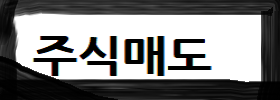
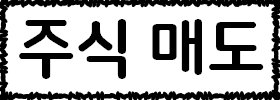
이미지 바꿔놓았습니다

diff --git a/t.py b/t.py
@@ -25,39 +25,36 @@ success_sound=pg.mixer.Sound("sound/매수매매성공효과음.mp3")
 gameclear_sound=pg.mixer.Sound("sound/게임승리효과음.mp3")
 gameover_sound=pg.mixer.Sound("sound/게임실패효과음.mp3")
 
-# 이미지
-mainmenu_img = pg.image.load('image/screen/메인화면.png')
-howtomenu_img = pg.image.load('image/screen/게임설명.png')
-gamebg_img = pg.image.load('image/screen/게임화면.png')
-showbuy_img = pg.image.load('image/screen/매수창.png')
-show_img = pg.image.load('image/screen/창.png')
-stockbox_img = pg.image.load('image/screen/주식박스.png')
+# 이미지 #해결된 거 옆에 주석처리^^
+mainmenu_img = pg.image.load('image/screen/메인화면.png') #
+howtomenu_img = pg.image.load('image/screen/게임설명.png') #추후 수정
+gamebg_img = pg.image.load('image/screen/게임화면.png') #
+showbuy_img = pg.image.load('image/screen/매수창.png')#
 gameclear_img = pg.image.load('image/screen/게임승리.png')
 gameover_img = pg.image.load('image/screen/게임오버.png')
 
 startbutton_img = pg.image.load('image/button/게임시작버튼.png')
 howtobutton_img = pg.image.load('image/button/게임방법버튼.png')
-cancelbutton_img = pg.image.load('image/button/취소버튼.png')
-sell_img = pg.image.load('image/button/매도버튼.png')
-nextday_img = pg.image.load('image/button/다음날로.png')
+cancelbutton_img = pg.image.load('image/button/취소버튼.png')#
+sell_img = pg.image.load('image/button/매도버튼.png')#
+nextday_img = pg.image.load('image/button/다음날로.png')#
 ten_img = pg.image.load('image/button/10주.png')
 thirty_img = pg.image.load('image/button/30주.png')
 fifty_img = pg.image.load('image/button/50주.png')
 hundred_img = pg.image.load('image/button/100주.png')
-decidebuy_img = pg.image.load('image/button/매수결정.png')
-buy_img = pg.image.load('image/button/매수버튼.png')
-tradeall_img = pg.image.load('image/button/전체수량.png')
+decidebuy_img = pg.image.load('image/button/매수결정.png')#
+buy_img = pg.image.load('image/button/매수버튼.png')#
+tradeall_img = pg.image.load('image/button/전체수량.png')#
 playagain_img = pg.image.load('image/button/다시하기.png')
 exitgame_img = pg.image.load('image/button/게임종료.png')
 
-seedicon_img = pg.image.load('image/etc/시드머니아이콘.png')
-goal_img = pg.image.load('image/etc/목표자산.png')
-seedicon_img = pg.image.load('image/etc/시드머니아이콘.png')
-stock1_img = pg.image.load('image/etc/주식1.png')
-stock2_img = pg.image.load('image/etc/주식2.png')
-stock3_img = pg.image.load('image/etc/주식3.png')
-holdstock_img = pg.image.load('image/etc/주식보유량.png')
-tradevolume_img = pg.image.load('image/etc/거래량.png')
+seedicon_img = pg.image.load('image/etc/시드머니아이콘.png')#
+goal_img = pg.image.load('image/etc/목표자산.png')#
+stock1_img = pg.image.load('image/etc/주식1.png')#
+stock2_img = pg.image.load('image/etc/주식2.png')#
+stock3_img = pg.image.load('image/etc/주식3.png')#
+holdstock_img = pg.image.load('image/etc/주식보유량.png')#
+tradevolume_img = pg.image.load('image/etc/거래량.png')#
 
 #추가 이미지
 sellalarm1_img=pg.image.load('image/etc/매도량알람1.png')
@@ -69,25 +66,25 @@ successalarm_img=pg.image.load('image/etc/거래성공알람.png')
 
 
 # 버튼
-start_button = button.Button(650, 500, startbutton_img, 0.5)
-howto_button = button.Button(650, 600, howtobutton_img, 0.5)
-stock1_button = button.Button(80, 380, stock1_img, 1)
-stock2_button = button.Button(80, 500, stock2_img, 1)
-stock3_button = button.Button(80, 620, stock3_img, 1)
+start_button = button.Button(650, 500, startbutton_img, 0.5)#
+howto_button = button.Button(650, 600, howtobutton_img, 0.5)#
+stock1_button = button.Button(30, 240, stock1_img, 1)#
+stock2_button = button.Button(30, 425, stock2_img, 1)#
+stock3_button = button.Button(30, 610, stock3_img, 1)#
 
-nextday_button = button.Button(1100, 650, nextday_img, 1)
-sell_button = button.Button(1125, 570, sell_img, 1)
-buy_button = button.Button(1125, 440, buy_img, 1)
-decide_button = button.Button(350, 600-130, decidebuy_img, 0.7-0.2)
+nextday_button = button.Button(1150, 650, nextday_img, 1)#
+sell_button = button.Button(1150, 540, sell_img, 1)#
+buy_button = button.Button(1150, 430, buy_img, 1)#
+decide_button = button.Button(330, 540, decidebuy_img, 0.7)#
 
-sellten_button = button.Button(320, 350-130, ten_img, 1)
-sellthr_button = button.Button(540, 350-130, thirty_img, 1)
-sellfif_button = button.Button(760, 350-130, fifty_img, 1)
-sellhund_button = button.Button(980, 350-130, hundred_img, 1)
-tradeall_button = button.Button(650, 470-130, tradeall_img, 1)
+sellten_button = button.Button(325, 330, ten_img, 0.7)#
+sellthr_button = button.Button(545, 330, thirty_img, 0.7)#
+sellfif_button = button.Button(765, 330, fifty_img, 0.7)#
+sellhund_button = button.Button(985, 330, hundred_img, 0.7)#
+tradeall_button = button.Button(640, 420, tradeall_img, 0.8)#
 
-playagain_button = button.Button(400, 550, playagain_img, 1)
-exitgame_button = button.Button(900, 550, exitgame_img, 1)
+playagain_button = button.Button(300, 550, playagain_img, 1)
+exitgame_button = button.Button(800, 550, exitgame_img, 1)
 
 # game 화면 실행 변수들
 main_menu = True
@@ -152,8 +149,7 @@ def imgdraw(img, w, h, x, y, scale):
 def showinfo(stock, hold):
     updownrate = str(
         int(((stock.prices[nowdate - 1]) / (stock.prices[nowdate - 6]) - 1) * 100))
-    imgdraw(show_img, 830, 570, 600, 200, 1)
-    imgdraw(holdstock_img, 280, 180, 1125, 230, 1)
+    imgdraw(holdstock_img, 280, 180, 1150, 240, 1)
     Writetext((str(str(hold) + '주')), 50, BLACK, 1200, 300)
     Writetext((str('주가: ' + str(int(stock.price)) + '원')), 50, BLACK, 640, 600)
     if float(updownrate) >= 0:
@@ -191,19 +187,20 @@ def savegraph(stock):
 
 #주식창 열때 설정
 def menuclick(stock):
-    global stockimg
+    #global stockimg
     plt.cla()
     savegraph(stock)
-    stockimg = pg.image.load('image/figures/figure.png')
+    #stockimg = pg.image.load('image/figures/figure.png')
+    return pg.image.load('image/figures/figure.png')
 
 #주식 사거나 팔때 창 설정
 def showtrade(volume):
     global game_menu, cancel_button
     game_menu = False
-    imgdraw(showbuy_img, 900, 600-100, 300, 200-150, 1)
-    imgdraw(tradevolume_img, 575, 115, 480, 200-130, 1)
-    Writetext(volume, 50, WHITE, 570, 220-130)
-    cancel_button = button.Button(850+60, 600-130, cancelbutton_img, 0.7-0.2)
+    imgdraw(showbuy_img, 900, 600, 300, 200-150, 1)
+    imgdraw(tradevolume_img, 575, 115, 470, 180, 1)
+    Writetext(volume, 50, WHITE, 520, 180)
+    cancel_button = button.Button(850, 540, cancelbutton_img, 0.7)
 
 def howmuch(volume):
     if sellten_button.draw(screen) == True:
@@ -233,9 +230,10 @@ def howmuchsell(sellvolume, hold):
 def buydecide(price,buyvolume,hold):
     global game_menu,seed
     game_menu=False
+    t=0
     if decide_button.draw(screen) == True:
         if seed <= price * buyvolume:
-            buyvolume = 0        
+            buyvolume = 0
             imgdraw(buyalarm1_img, 400, 150, 480, 600, 1)
             fail_sound.play(0)
 
@@ -326,13 +324,12 @@ while run:
         imgdraw(seedicon_img, 400, 100, 5, 60, 1)
         Writetext(str(int(seed)), 50, WHITE, 170, 70)
         Writetext(('수익률: '+ str(earning_rate) + '%'), 50, WHITE, 500, 70)
-        imgdraw(goal_img, 400, 100, 1025, 60, 1)
-        Writetext(str(goal), 50, WHITE, 1200, 70)
-        imgdraw(stockbox_img, 500, 570, 70, 200, 1)
-        cancel_button = button.Button(1180, 700, cancelbutton_img, 0.5)
+        imgdraw(goal_img, 450, 100, 1025, 60, 1)
+        Writetext(str(goal), 50, WHITE, 1220, 73)
+        cancel_button = button.Button(720, 720, cancelbutton_img, 0.5)
 
 # 다음날로 가는 버튼
-        if (nextday_button.draw(screen) == True) and (stock_menu1 == False) and (stock_menu2 == False) and (stock_menu3 == False):
+        if (nextday_button.draw(screen) == True):
             print('NEXT DAY')
             menu_sound.play(0)
             nextday()
@@ -341,10 +338,11 @@ while run:
         if stock1_button.draw(screen) == True:
             menu_sound.play(0)                
             print("stock1")
-            menuclick(stock1)
+            stockimg=menuclick(stock1)
             stock2_menu = False
             stock3_menu = False
             stock_menu1 = True
+            game_menu=True
 
         if stock_menu1 == True:
             showinfo(stock1, hold1)
@@ -372,10 +370,10 @@ while run:
         if stock2_button.draw(screen) == True:
             menu_sound.play(0)
             print("stock2")
-            menuclick(stock1)
+            stockimg=menuclick(stock2)
             stock_menu1 = False
             stock_menu3 = False
-            stock_menu2 = stock2
+            stock_menu2 = True
 
         if stock_menu2 == True:
             showinfo(stock2, hold2)
@@ -402,10 +400,10 @@ while run:
         if stock3_button.draw(screen) == True:
             menu_sound.play(0)        
             print("stock3")
-            menuclick()
+            stockimg=menuclick(stock3)
             stock_menu1 = False
             stock_menu2 = False
-            stock_menu3 = stock3
+            stock_menu3 = True
 
         if stock_menu3 == True:
             showinfo(stock3, hold3)
@@ -511,6 +509,7 @@ while run:
 
 # 게임 종료
     if seed >= goal:
+        gameclear_sound.play(0)
         screen.fill(BLACK)
         game_menu = False
         howto_menu = False
@@ -525,7 +524,6 @@ while run:
         sell_menu3 = False
         gameclear_menu = True
         if gameclear_menu == True:
-            gameclear_sound.play(0)
             imgdraw(gameclear_img, 1500, 800, 0, 0, 1)
             Writetext((str(int(seed)) + '원'), 60, BLACK, 700, 385)
             if playagain_button.draw(screen) == True:
@@ -569,6 +567,7 @@ while run:
                 pg.quit()
 
     elif seed <= 0:
+        gameover_sound.play(0)
         screen.fill(BLACK)
         game_menu = False
         howto_menu = False
@@ -584,7 +583,7 @@ while run:
         gameover_menu = True
         if gameover_menu == True:
             imgdraw(gameover_img, 1500, 800, 0, 0, 1)
-            gameover_sound.play(0)
+
             if playagain_button.draw(screen) == True:
                 print('play again')
                 seed = 1000000
